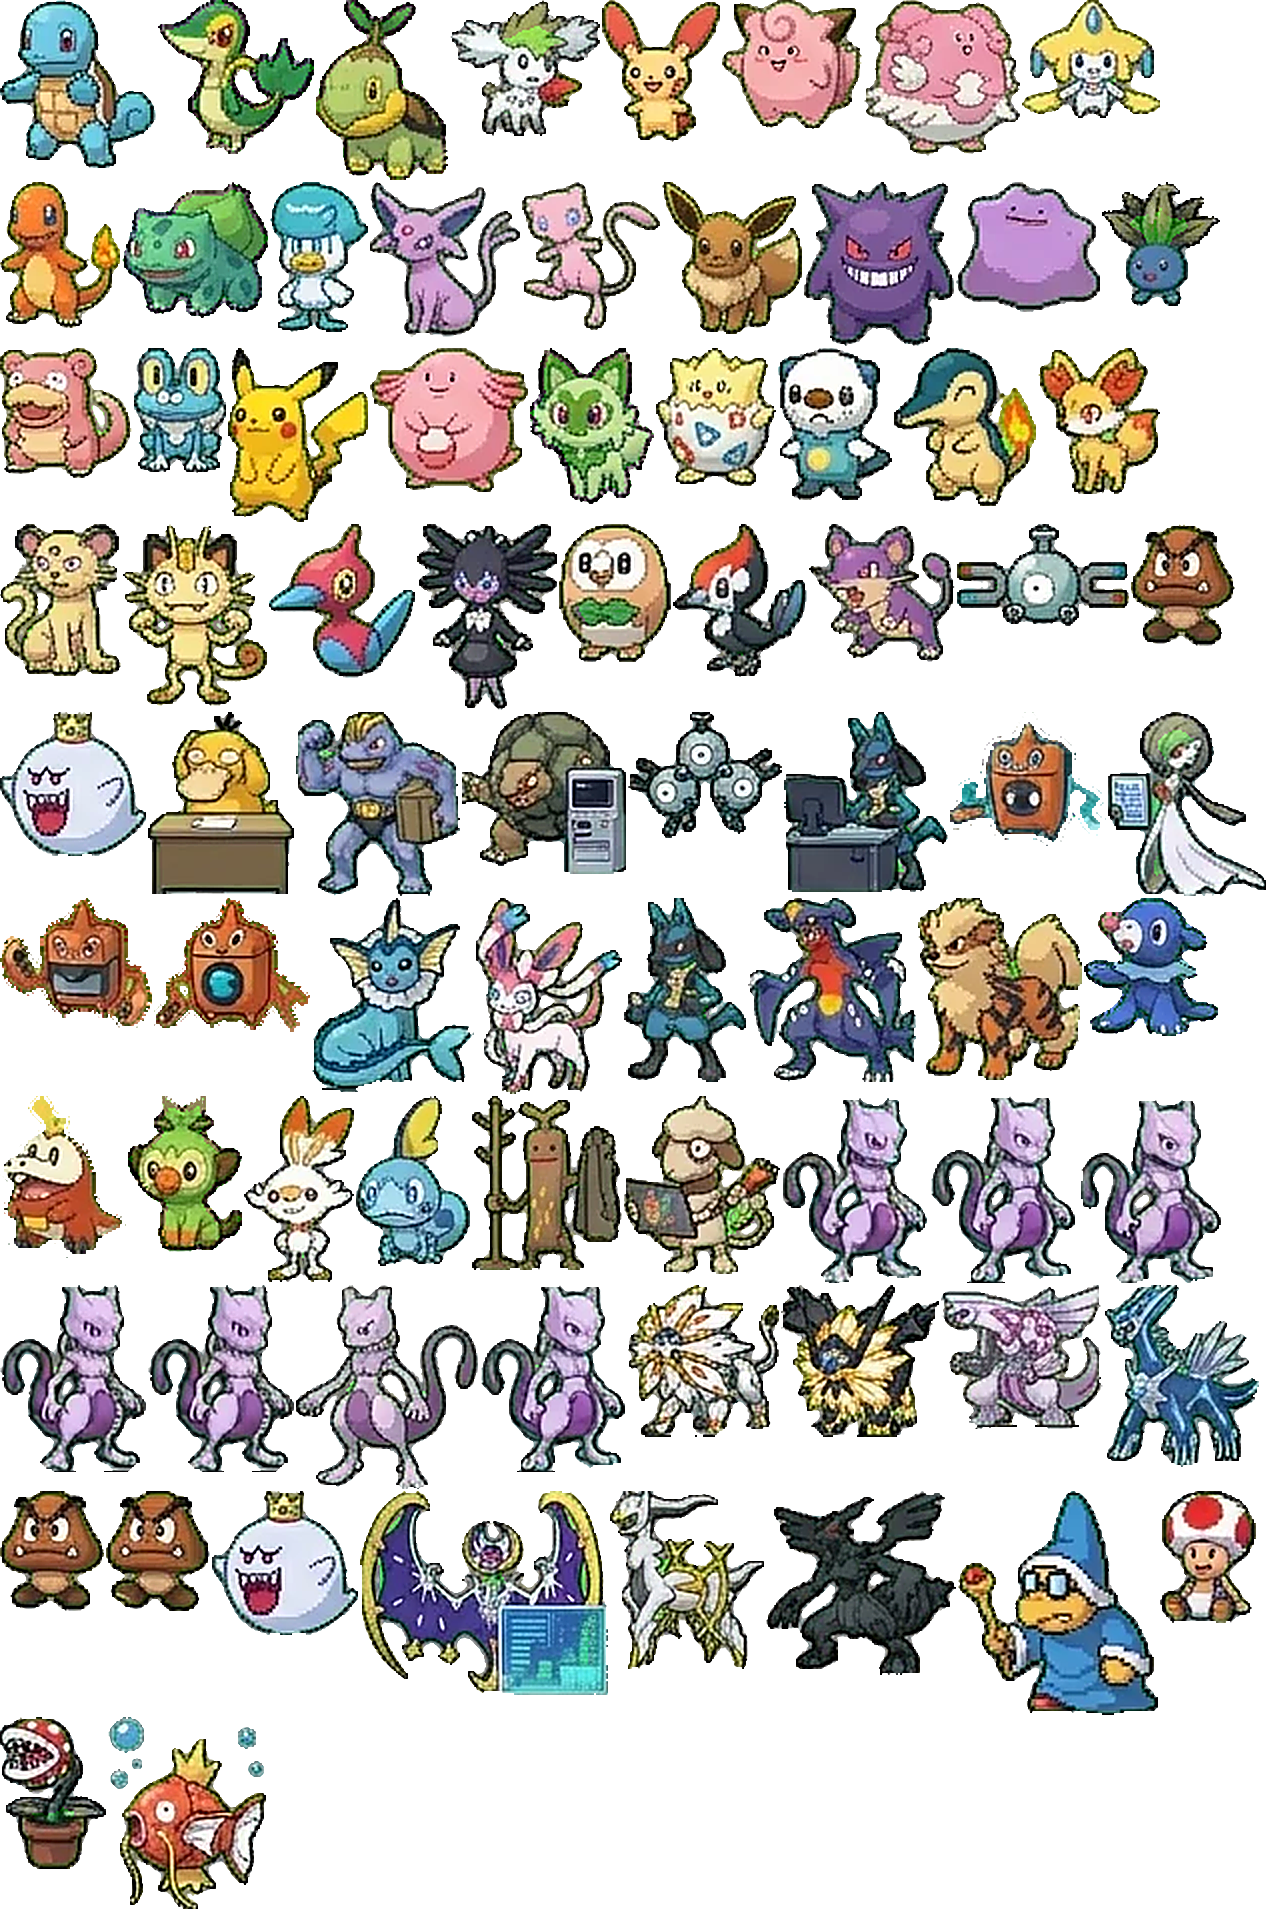
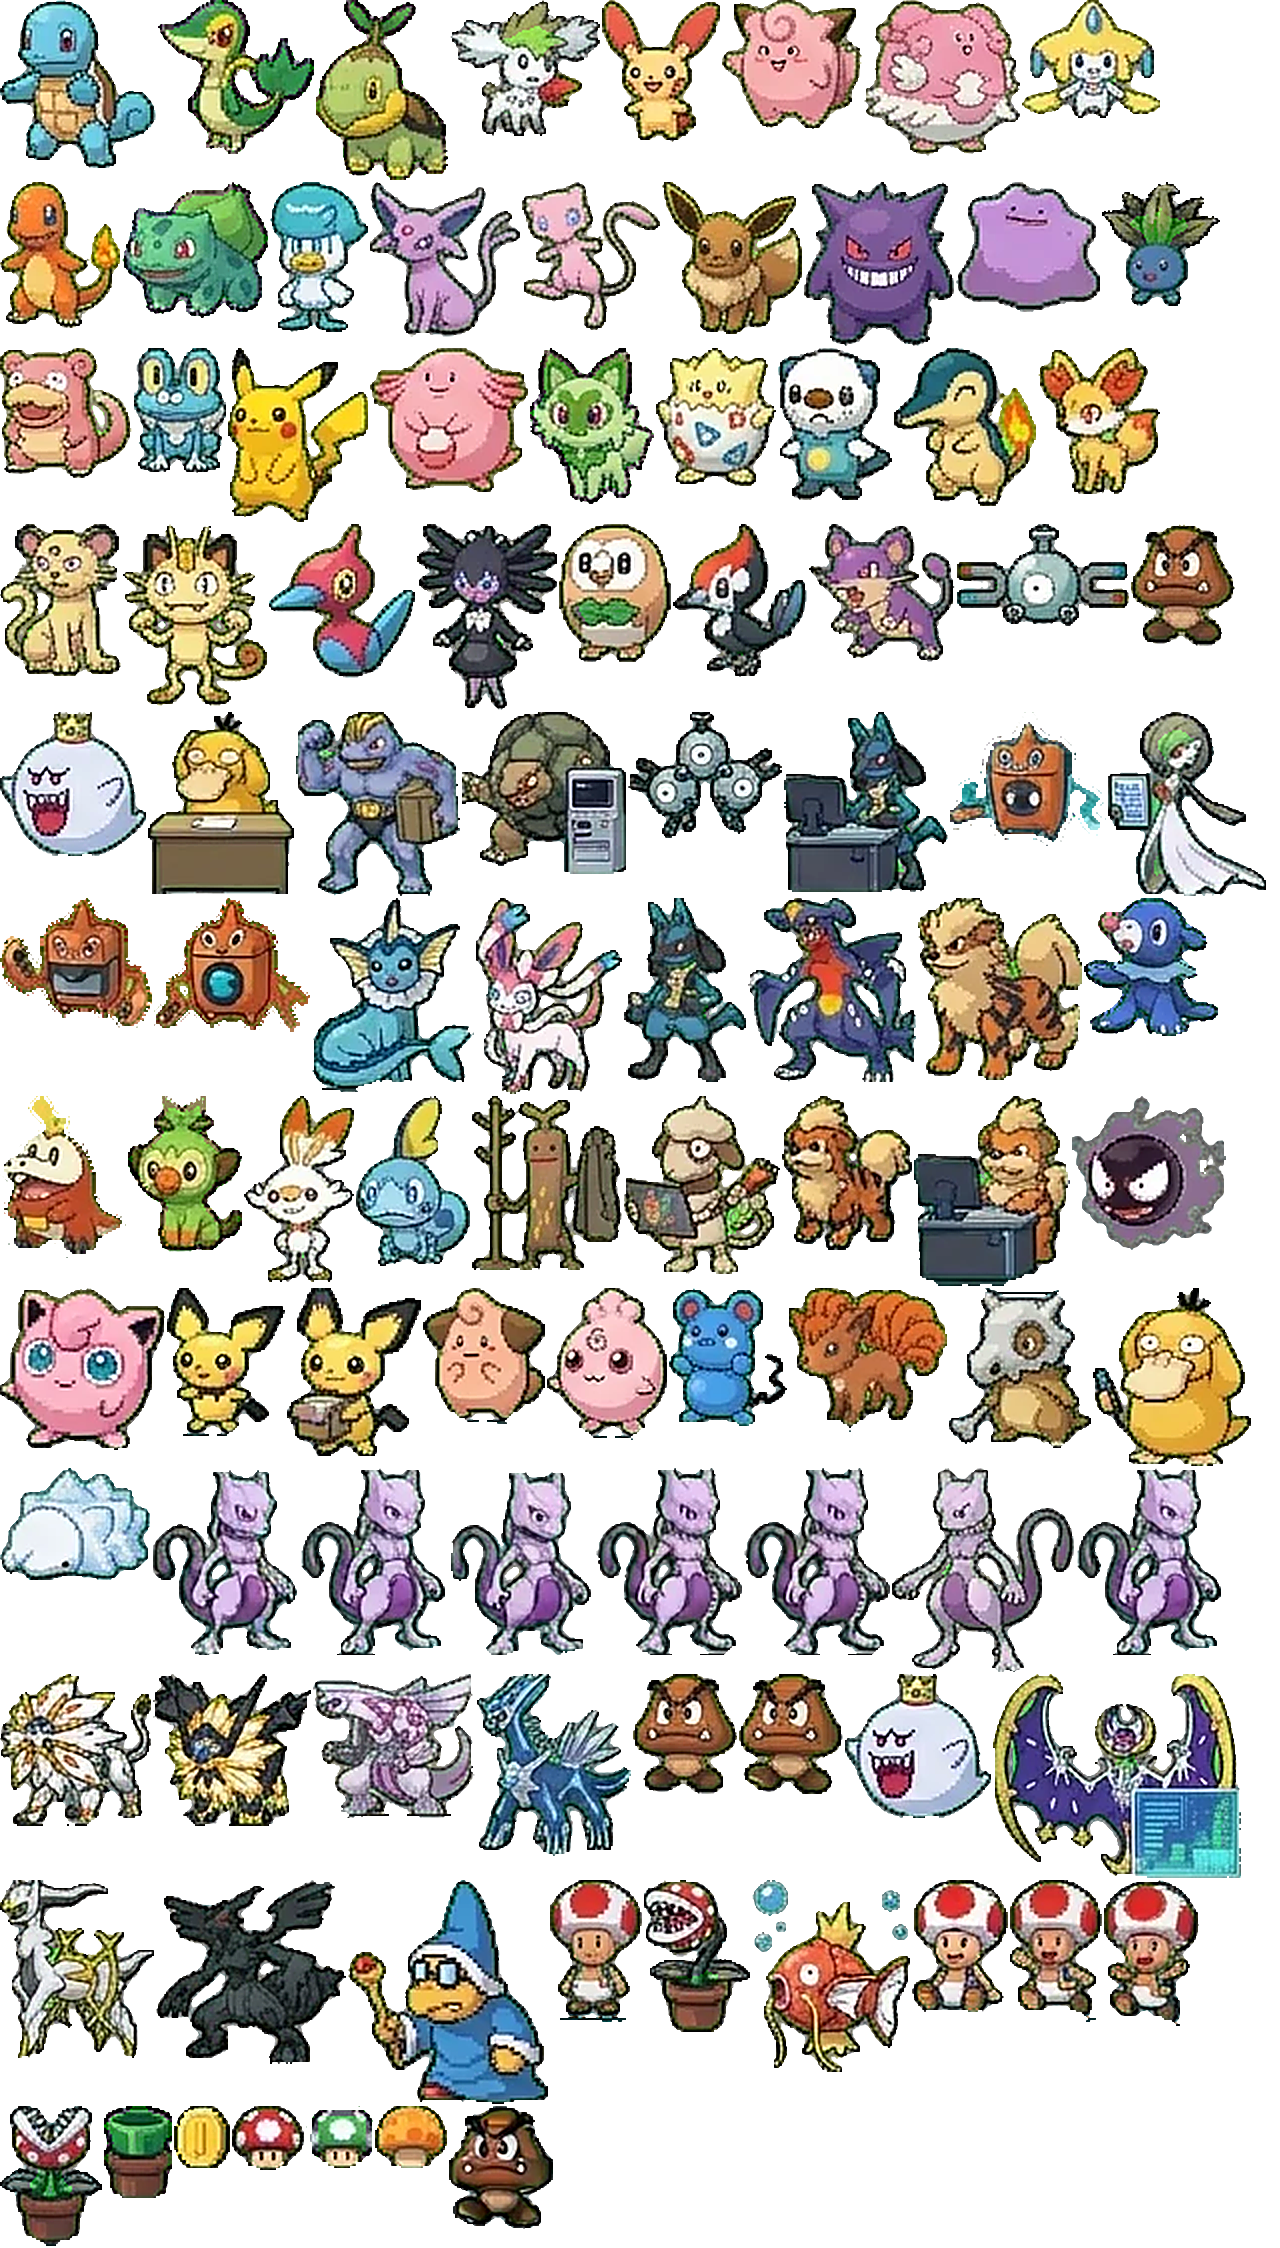
office assets: sheet5 cuts (Growlithe, Gastly, Jigglypuff, standing Toad, coins, fridge, props)
Claude-Session: https://claude.ai/code/session_01GqwKuwsJ5VsQjc2XADjCyR

diff --git a/office/make-atlas.py b/office/make-atlas.py
@@ -2,7 +2,7 @@
 """초록 배경 캐릭터·소품 시트(source/sheet~sheet4.webp) → assets/atlas.png, assets/props.png, assets/atlas.json
 사용: python3 office/make-atlas.py   (인자 없이 한 번에 재생성)
 컷 번호는 cutout.components 결과(위→아래, 왼→오른쪽 정렬)이고, CHARS/BOSS/PROP_COMPS 등은 시트를 눈으로 보고 정한 목록이다.
-'sN' 표기는 시트 번호(s1=sheet, s2=sheet2, s3=sheet3, s4=sheet4)이고, 컷 번호 또는 좌표(x0,y0,x1,y1)를 쓴다.
+'sN' 표기는 시트 번호(s1=sheet, s2=sheet2, s3=sheet3, s4=sheet4, s5=sheet5)이고, 컷 번호 또는 좌표(x0,y0,x1,y1)를 쓴다.
 """
 import sys, os, json
 sys.path.insert(0, os.path.dirname(os.path.abspath(__file__)))
@@ -14,6 +14,7 @@ HERE = os.path.dirname(os.path.abspath(__file__))
 SRC = sys.argv[1] if len(sys.argv) > 1 else os.path.join(HERE, 'source', 'sheet.webp')
 SRC2 = sys.argv[2] if len(sys.argv) > 2 else os.path.join(HERE, 'source', 'sheet2.webp')  # 전설의 포켓몬·굼바 변형이 들어 있는 두 번째 시트
 SRC3 = os.path.join(HERE, 'source', 'sheet3.webp')                                         # 세 번째 시트(76.webp): 루나아라·아르세우스·제크로무·카멕·키노피오·잉어킹·신규 직원 종이 있다
+SRC5 = os.path.join(HERE, 'source', 'sheet5.webp')                                         # 다섯 번째 시트(79.webp): 가디·고오스·푸린·피츄·마릴 등 신규 종, 키노피오(서 있는 컷)·뻐끔플라워·코인·버섯, 냉장고·자판기·프린터 등 소품
 SRC4 = os.path.join(HERE, 'source', 'sheet4.webp')                                         # 네 번째 시트(78.webp): 팝고래·뜨아거 등 신규 종과 사무 소품이 있다
 
 # (id, 한글 이름, 컷 번호, 초록 몸 여부)
@@ -58,7 +59,12 @@ EXTRA = [('solgaleo', '솔가레오풍', ('s2', 53)), ('necrozma', '네크로즈
          ('palkia', '펄기아풍', ('s2', (1189, 243, 1272, 324))), ('dialga', '디아루가풍', ('s3', (824, 462, 920, 557))),
          ('goomba_a', '굼바(정면)', ('s2', 21)), ('goomba_b', '굼바(걸음)', ('s2', 27)), ('kingboo2', '부끄왕', ('s2', 23)),
          ('lunala', '루나아라', ('s3', 47)), ('arceus', '아르세우스', ('s3', 61)), ('zekrom', '제크로무', ('s3', 58)), ('kamek', '카멕', ('s3', 21)),
-         ('toad', '키노피오', ('s3', 23)), ('piranha', '뻐끔플라워(화분)', ('s3', (983, 124, 1064, 206))), ('magikarp', '잉어킹', ('s3', 84))]
+         ('toad', '키노피오(서 있음)', ('s5', 19)), ('piranha', '뻐끔플라워(화분)', ('s3', (983, 124, 1064, 206))), ('magikarp', '잉어킹', ('s3', 84)),
+         # --- 5차(sheet5): 키노피오 서 있는 컷 3종(toad=정면, toad_b=손 흔들기, toad_c=걷기), 앉은 컷은 toad_sit로 보존, 뻐끔플라워 둘째 컷, 토관·코인·버섯, 굼바 변형
+         ('toad_sit', '키노피오(앉음)', ('s3', 23)), ('toad_b', '키노피오(손 흔들기)', ('s5', 20)), ('toad_c', '키노피오(걷기)', ('s5', 24)),
+         ('piranha_b', '뻐끔플라워(입 벌림)', ('s5', 25)), ('pipe', '토관', ('s5', 36)), ('coin', '코인', ('s5', (1301, 163, 1346, 203))),
+         ('mushroom_red', '빨간 버섯', ('s5', (1301, 45, 1346, 84))), ('mushroom_green', '초록 버섯', ('s5', (1301, 85, 1346, 122))),
+         ('mushroom_orange', '주황 버섯', ('s5', (1301, 123, 1346, 162))), ('goomba_c', '굼바(화난 얼굴)', ('s5', 23))]
 # 에이전트 종 추가(CHARS 뒤에 이어 붙인다 — SPR 인덱스가 순서에 의존하므로 기존 순서는 바꾸지 않는다): (id, 한글 이름, (시트, 컷), 초록 몸 여부)
 NEWCHARS = [('psyduck', '고라파덕(책상)', ('s3', 73), False), ('machamp', '근육몬', ('s3', (104, 550, 193, 650)), False),
             ('golem', '딱구리', ('s3', (194, 550, 286, 650)), False), ('magneton', '레어코일', ('s3', (287, 552, 370, 650)), False),
@@ -69,12 +75,33 @@ NEWCHARS = [('psyduck', '고라파덕(책상)', ('s3', 73), False), ('machamp', 
             ('popplio', '누리공', ('s4', 96), True), ('fuecoco', '뜨아거', ('s4', 97), True), ('grookey', '흥나숭', ('s4', 98), True),
             ('scorbunny', '염버니', ('s4', 99), False), ('sobble', '울머기', ('s4', 100), False), ('sudowoodo', '꼬지모', ('s4', 103), False),
             ('smeargle', '루브도', ('s4', 104), False)]
+# 5차 신규 종(sheet5): 기존 NEWCHARS 뒤에 이어 붙인다(순서 불변)
+NEWCHARS5 = [('growlithe', '가디', ('s5', 67), False), ('growlithe_desk', '가디(책상)', ('s5', 73), False), ('gastly', '고오스', ('s5', 71), False),
+             ('jigglypuff', '푸린', ('s5', (197, 563, 281, 650)), False), ('pichu', '피츄', ('s5', 77), False),
+             ('pichu_box', '피츄(상자)', ('s5', (17, 561, 98, 650)), False), ('cleffa', '삐', ('s5', 79), False), ('igglybuff', '푸푸린', ('s5', 80), False),
+             ('marill', '마릴', ('s5', 82), False), ('vulpix', '식스테일', ('s5', 84), False), ('cubone', '탄돈', ('s5', 86), False),
+             ('psyduck_stand', '고라파덕(서 있음)', ('s5', 74), False), ('snowball', '눈뭉치', ('s5', 90), False)]
 # 소품 추가(sheet4): (id, 한글 이름, (시트, 컷 번호 또는 좌표))
 PROP_NEW = [('chair_red', '빨간 의자', ('s4', 89)), ('chair_blue', '파란 의자', ('s4', 90)), ('chair_black', '검정 의자', ('s4', 106)),
             ('bonsai_a', '분재 A', ('s4', 91)), ('bonsai_b', '분재 B', ('s4', 92)), ('bonsai_c', '분재 C', ('s4', 93)), ('aloe', '알로에 화분', ('s4', 94)),
             ('desk_l', 'ㄱ자 책상', ('s4', 107)), ('desk_gray', '회색 책상', ('s4', 108)), ('binders', '바인더 선반', ('s4', 109)),
             ('calculator', '계산기', ('s4', 110)), ('stapler', '스테이플러', ('s4', 111)), ('microwave', '전자레인지', ('s4', 112)),
             ('fan_rotom', '선풍기 로토무', ('s4', (1098, 327, 1160, 382))), ('fridge_rotom', '냉장고 로토무', ('s4', (1160, 327, 1223, 382)))]
+
+# 5차 소품(sheet5 우하단 소품 격자): 좌표 컷. 칸 안쪽으로 살짝 줄여 시트 격자선이 걸리지 않게 한다
+PROP_NEW5 = [('fridge', '유리 냉장고', ('s5', (826, 661, 904, 754))), ('vending_big', '큰 자판기', ('s5', (919, 562, 996, 655))),
+             ('water_jug', '여분 물통', ('s5', (828, 570, 868, 654))), ('coffee_machine', '커피머신(검정)', ('s5', (921, 660, 957, 704))),
+             ('coffee_maker', '커피메이커', ('s5', (965, 660, 1002, 704))), ('printer', '프린터', ('s5', (1098, 710, 1136, 754))),
+             ('copier', '복합기', ('s5', (1141, 710, 1180, 754))), ('cabinet', '서류 캐비닛', ('s5', (1190, 660, 1222, 704))),
+             ('pc_tower', 'PC 본체', ('s5', (1235, 660, 1265, 704))), ('server_tower', '서버 타워', ('s5', (1279, 660, 1358, 754))),
+             ('desk_small_a', '작은 책상 A', ('s5', (1007, 571, 1046, 604))), ('desk_small_b', '작은 책상 B', ('s5', (1049, 571, 1090, 604))),
+             ('desk_wood_a', '나무 책상 A', ('s5', (1007, 616, 1046, 650))), ('desk_wood_b', '나무 책상 B', ('s5', (1049, 616, 1090, 650))),
+             ('mon_color', '컬러 모니터', ('s5', (1096, 565, 1136, 604))), ('mon_blue_a', '파란 모니터 A', ('s5', (1231, 565, 1269, 604))),
+             ('mon_blue_b', '파란 모니터 B', ('s5', (1276, 565, 1314, 604))), ('mon_chart', '차트 모니터', ('s5', (1096, 614, 1136, 652))),
+             ('plant_blue', '푸른 화분', ('s5', (921, 710, 953, 754))), ('plant_fern', '고사리 화분', ('s5', (965, 710, 1002, 754))),
+             ('plant_pot_c', '잎 화분', ('s5', (1009, 710, 1043, 754))), ('plant_palm', '야자 화분', ('s5', (1009, 661, 1044, 704))),
+             ('mug', '머그컵 화분', ('s5', (1146, 661, 1176, 704))), ('laptop', '노트북', ('s5', (1054, 661, 1088, 704))),
+             ('tray', '서류 트레이', ('s5', (1054, 710, 1090, 754))), ('mon_doc', '문서 모니터', ('s5', (1096, 661, 1136, 704)))]
 
 def trim(rgba):
     al = rgba[..., 3]
@@ -188,18 +215,23 @@ def same_canvas(arrs):
     return out
 
 def main():
-    S = {'s1': Sheet(SRC), 's2': Sheet(SRC2), 's3': Sheet(SRC3), 's4': Sheet(SRC4)}
+    S = {'s1': Sheet(SRC), 's2': Sheet(SRC2), 's3': Sheet(SRC3), 's4': Sheet(SRC4), 's5': Sheet(SRC5)}
     def get(ref, green=False):
         return S[ref[0]].get(ref[1], green)
-    extra = [(eid, enhance(get(ref))) for eid, _, ref in EXTRA]
-    chars = [(cid, enhance(S['s1'].cut(i, g))) for cid, _, i, g in CHARS] + [(cid, enhance(defringe(get(ref, g), kill=cid.startswith('rotom') or cid == 'fuecoco') if g else get(ref, g))) for cid, _, ref, g in NEWCHARS]
+    def extra_cut(eid, ref):
+        g = eid in ('mushroom_green', 'pipe')                     # 초록 몸은 despill의 green 모드(초록을 지우지 않는다)
+        a = get(ref, g)
+        if eid.startswith('toad') or eid in ('goomba_c', 'mushroom_red', 'mushroom_orange', 'coin'): a = defringe(a)   # 윤곽의 올리브색 번짐 제거
+        return enhance(a)
+    extra = [(eid, extra_cut(eid, ref)) for eid, _, ref in EXTRA]
+    chars = [(cid, enhance(S['s1'].cut(i, g))) for cid, _, i, g in CHARS] + [(cid, enhance(defringe(get(ref, g), kill=cid.startswith('rotom') or cid == 'fuecoco' or cid == 'gastly') if (g or cid == 'gastly') else get(ref, g))) for cid, _, ref, g in NEWCHARS + NEWCHARS5]
     bcuts = {bid: keep_main(enhance(get(ref))) for bid, _, ref in BOSS}
     same = same_canvas([bcuts[k] for k in BOSS_SAME])
     for k, arr in zip(BOSS_SAME, same): bcuts[k] = arr
     boss = [(bid, bcuts[bid]) for bid, _, _ in BOSS]
     atlas, apos = pack(chars + boss + extra, 1280)
     s1 = S['s1']
-    props = [(pid, s1.cut(i)) for pid, _, i in PROP_COMPS] + [(pid, s1.rect(r)) for pid, _, r in PROP_RECTS] + [(pid, prop_fix(pid, get(ref, pid.startswith(('bonsai', 'aloe', 'chair'))))) for pid, _, ref in PROP_NEW]
+    props = [(pid, s1.cut(i)) for pid, _, i in PROP_COMPS] + [(pid, s1.rect(r)) for pid, _, r in PROP_RECTS] + [(pid, prop_fix(pid, get(ref, pid.startswith(('bonsai', 'aloe', 'chair', 'plant_', 'mug'))))) for pid, _, ref in PROP_NEW + PROP_NEW5]
     psheet, ppos = pack(props, 640)
     out = os.path.join(HERE, 'assets'); os.makedirs(out, exist_ok=True)
     # 용량 줄이기: 팔레트 PNG(알파 포함)
@@ -209,11 +241,11 @@ def main():
     atlas.save(os.path.join(out, 'atlas.png'), optimize=True); save(psheet, 'props.png')
     meta = {
         'atlas': {'file': 'atlas.png', 'w': atlas.width, 'h': atlas.height, 'up': UP,
-                  'chars': [{'id': cid, 'name': n, 'rect': apos[cid]} for cid, n, _, _ in CHARS] + [{'id': cid, 'name': n, 'rect': apos[cid]} for cid, n, _, _ in NEWCHARS],
+                  'chars': [{'id': cid, 'name': n, 'rect': apos[cid]} for cid, n, _, _ in CHARS] + [{'id': cid, 'name': n, 'rect': apos[cid]} for cid, n, _, _ in NEWCHARS + NEWCHARS5],
                   'boss': [{'id': bid, 'name': n, 'rect': apos[bid]} for bid, n, _ in BOSS],
                   'extra': [{'id': eid, 'name': n, 'rect': apos[eid]} for eid, n, _ in EXTRA]},
         'props': {'file': 'props.png', 'w': psheet.width, 'h': psheet.height,
-                  'items': [{'id': pid, 'name': n, 'rect': ppos[pid]} for pid, n, _ in PROP_COMPS] + [{'id': pid, 'name': n, 'rect': ppos[pid]} for pid, n, _ in PROP_RECTS] + [{'id': pid, 'name': n, 'rect': ppos[pid]} for pid, n, _ in PROP_NEW]}}
+                  'items': [{'id': pid, 'name': n, 'rect': ppos[pid]} for pid, n, _ in PROP_COMPS] + [{'id': pid, 'name': n, 'rect': ppos[pid]} for pid, n, _ in PROP_RECTS] + [{'id': pid, 'name': n, 'rect': ppos[pid]} for pid, n, _ in PROP_NEW + PROP_NEW5]}}
     # 점수판: 숫자 자리(그림에 구워진 "6 1 0 62")를 찾아 게임이 위에 칠하고 실제 숫자를 쓸 수 있게 위치를 적는다
     sx, sy, sw, sh = ppos['score']
     arr = np.array(psheet.convert('RGBA')).astype(int)[sy:sy + sh, sx:sx + sw]

diff --git a/office/README.md b/office/README.md
@@ -96,3 +96,12 @@
 
 ### 소품 추가(`props` 끝에 이어 붙임 — 기존 id·위치는 그대로)
 `chair_red` `chair_blue` `chair_black`(의자 3), `bonsai_a` `bonsai_b` `bonsai_c`(분재), `aloe`, `desk_l`(ㄱ자 책상), `desk_gray`, `binders`(바인더 선반), `calculator`, `stapler`, `microwave` = sheet4 89~94·106~112번, `fan_rotom` `fridge_rotom` = sheet4 좌표 (1098,327)-(1160,382)·(1160,327)-(1223,382).
+
+### 5차(sheet5, 79.webp) 추가 컷
+`make-atlas.py`의 `NEWCHARS5`(에이전트 종, chars 인덱스 57~69), `EXTRA`(5차 줄), `PROP_NEW5`에 있다. 컷 번호는 sheet5의 연결 성분(위→아래, 왼→오른쪽) 또는 좌표다. 건물 직원·장식 id는 **같은 id로 컷만 바뀐 것**이 있다: `toad`는 이제 서 있는 컷(앉은 컷은 `toad_sit`).
+
+| 구분 | id | 시트 컷 |
+|---|---|---|
+| chars 57~69 | growlithe(가디, 컷67), growlithe_desk(컷73), gastly(71), jigglypuff(좌표), pichu(77), pichu_box(좌표), cleffa(79), igglybuff(80), marill(82), vulpix(84), cubone(86), psyduck_stand(74), snowball(90) | 가디 둘째 컷(68)·야돈·로토무 등 중복은 넣지 않았다 |
+| extra | toad(컷19 정면), toad_b(20 손 흔들기), toad_c(24 걷기), toad_sit(sheet3 23 앉음), piranha_b(25), pipe(36), coin·mushroom_red/green/orange(좌표), goomba_c(23 화난 굼바) | `piranha`는 그대로 |
+| props | fridge, vending_big, water_jug, coffee_machine, coffee_maker, printer, copier, cabinet, pc_tower, server_tower, desk_small_a/b, desk_wood_a/b, mon_color, mon_blue_a/b, mon_chart, mon_doc, plant_blue/fern/pot_c/palm, mug, laptop, tray | 소품 격자 좌표 컷 |
